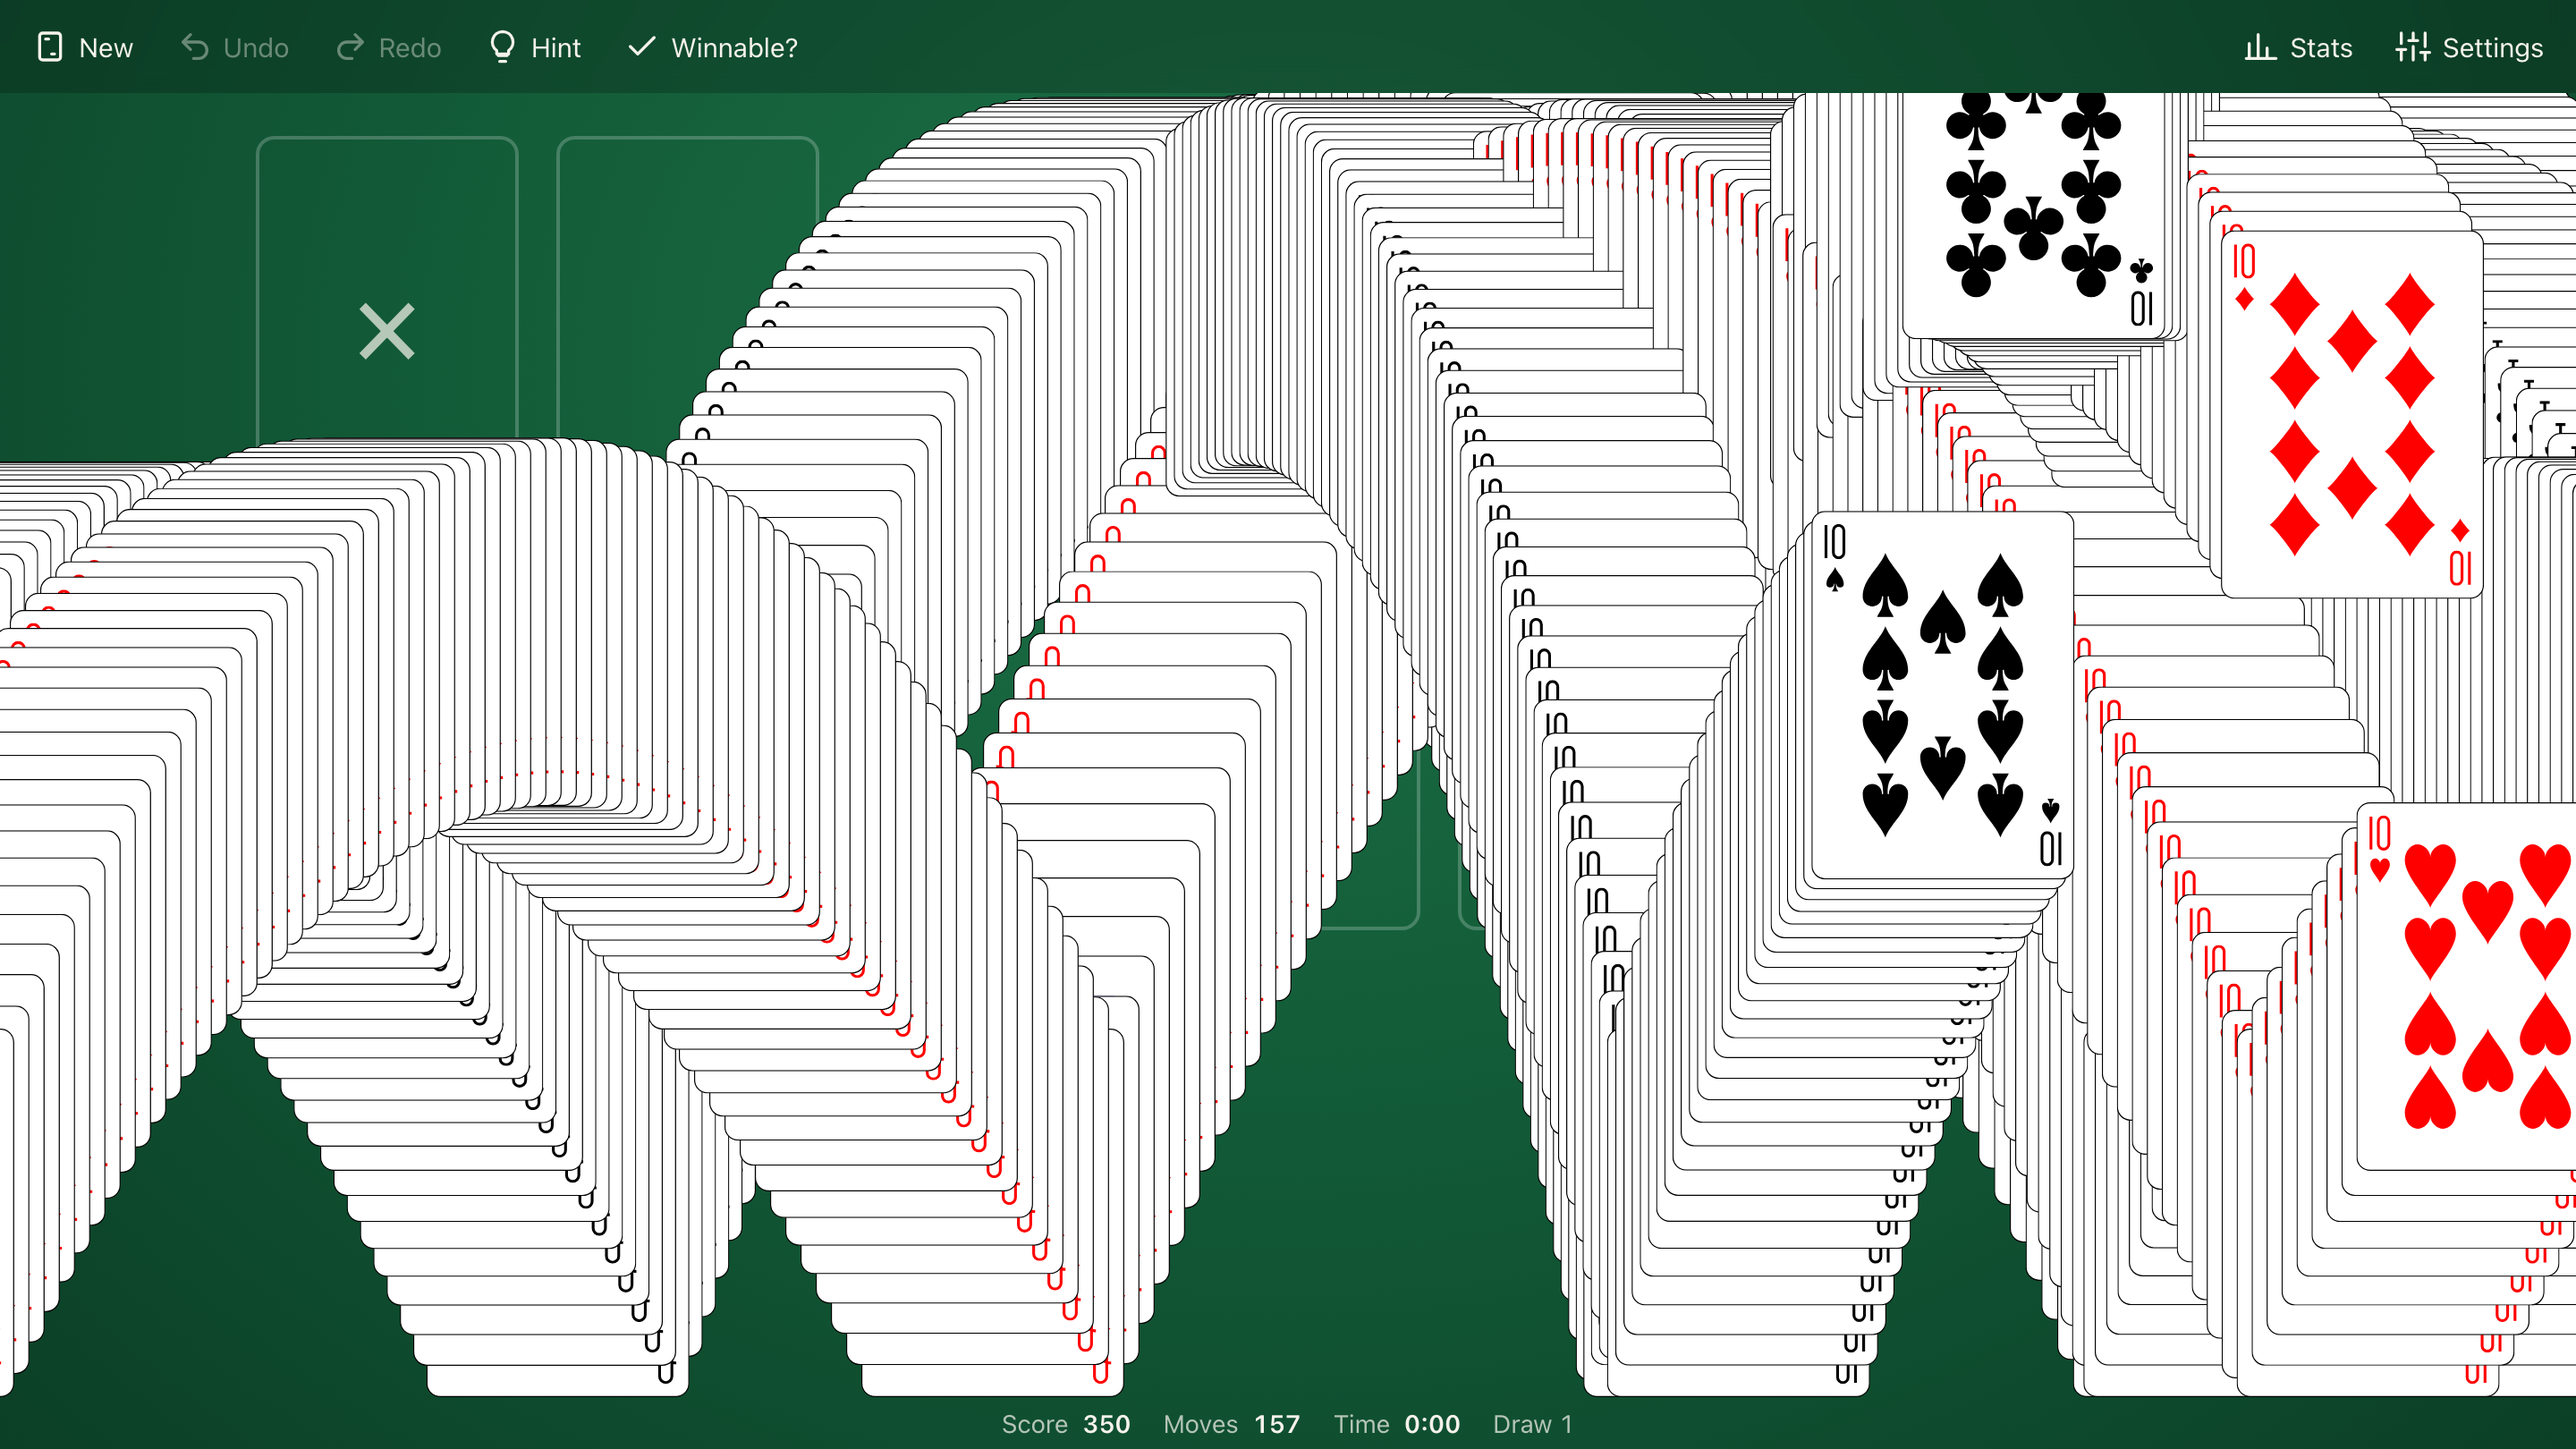
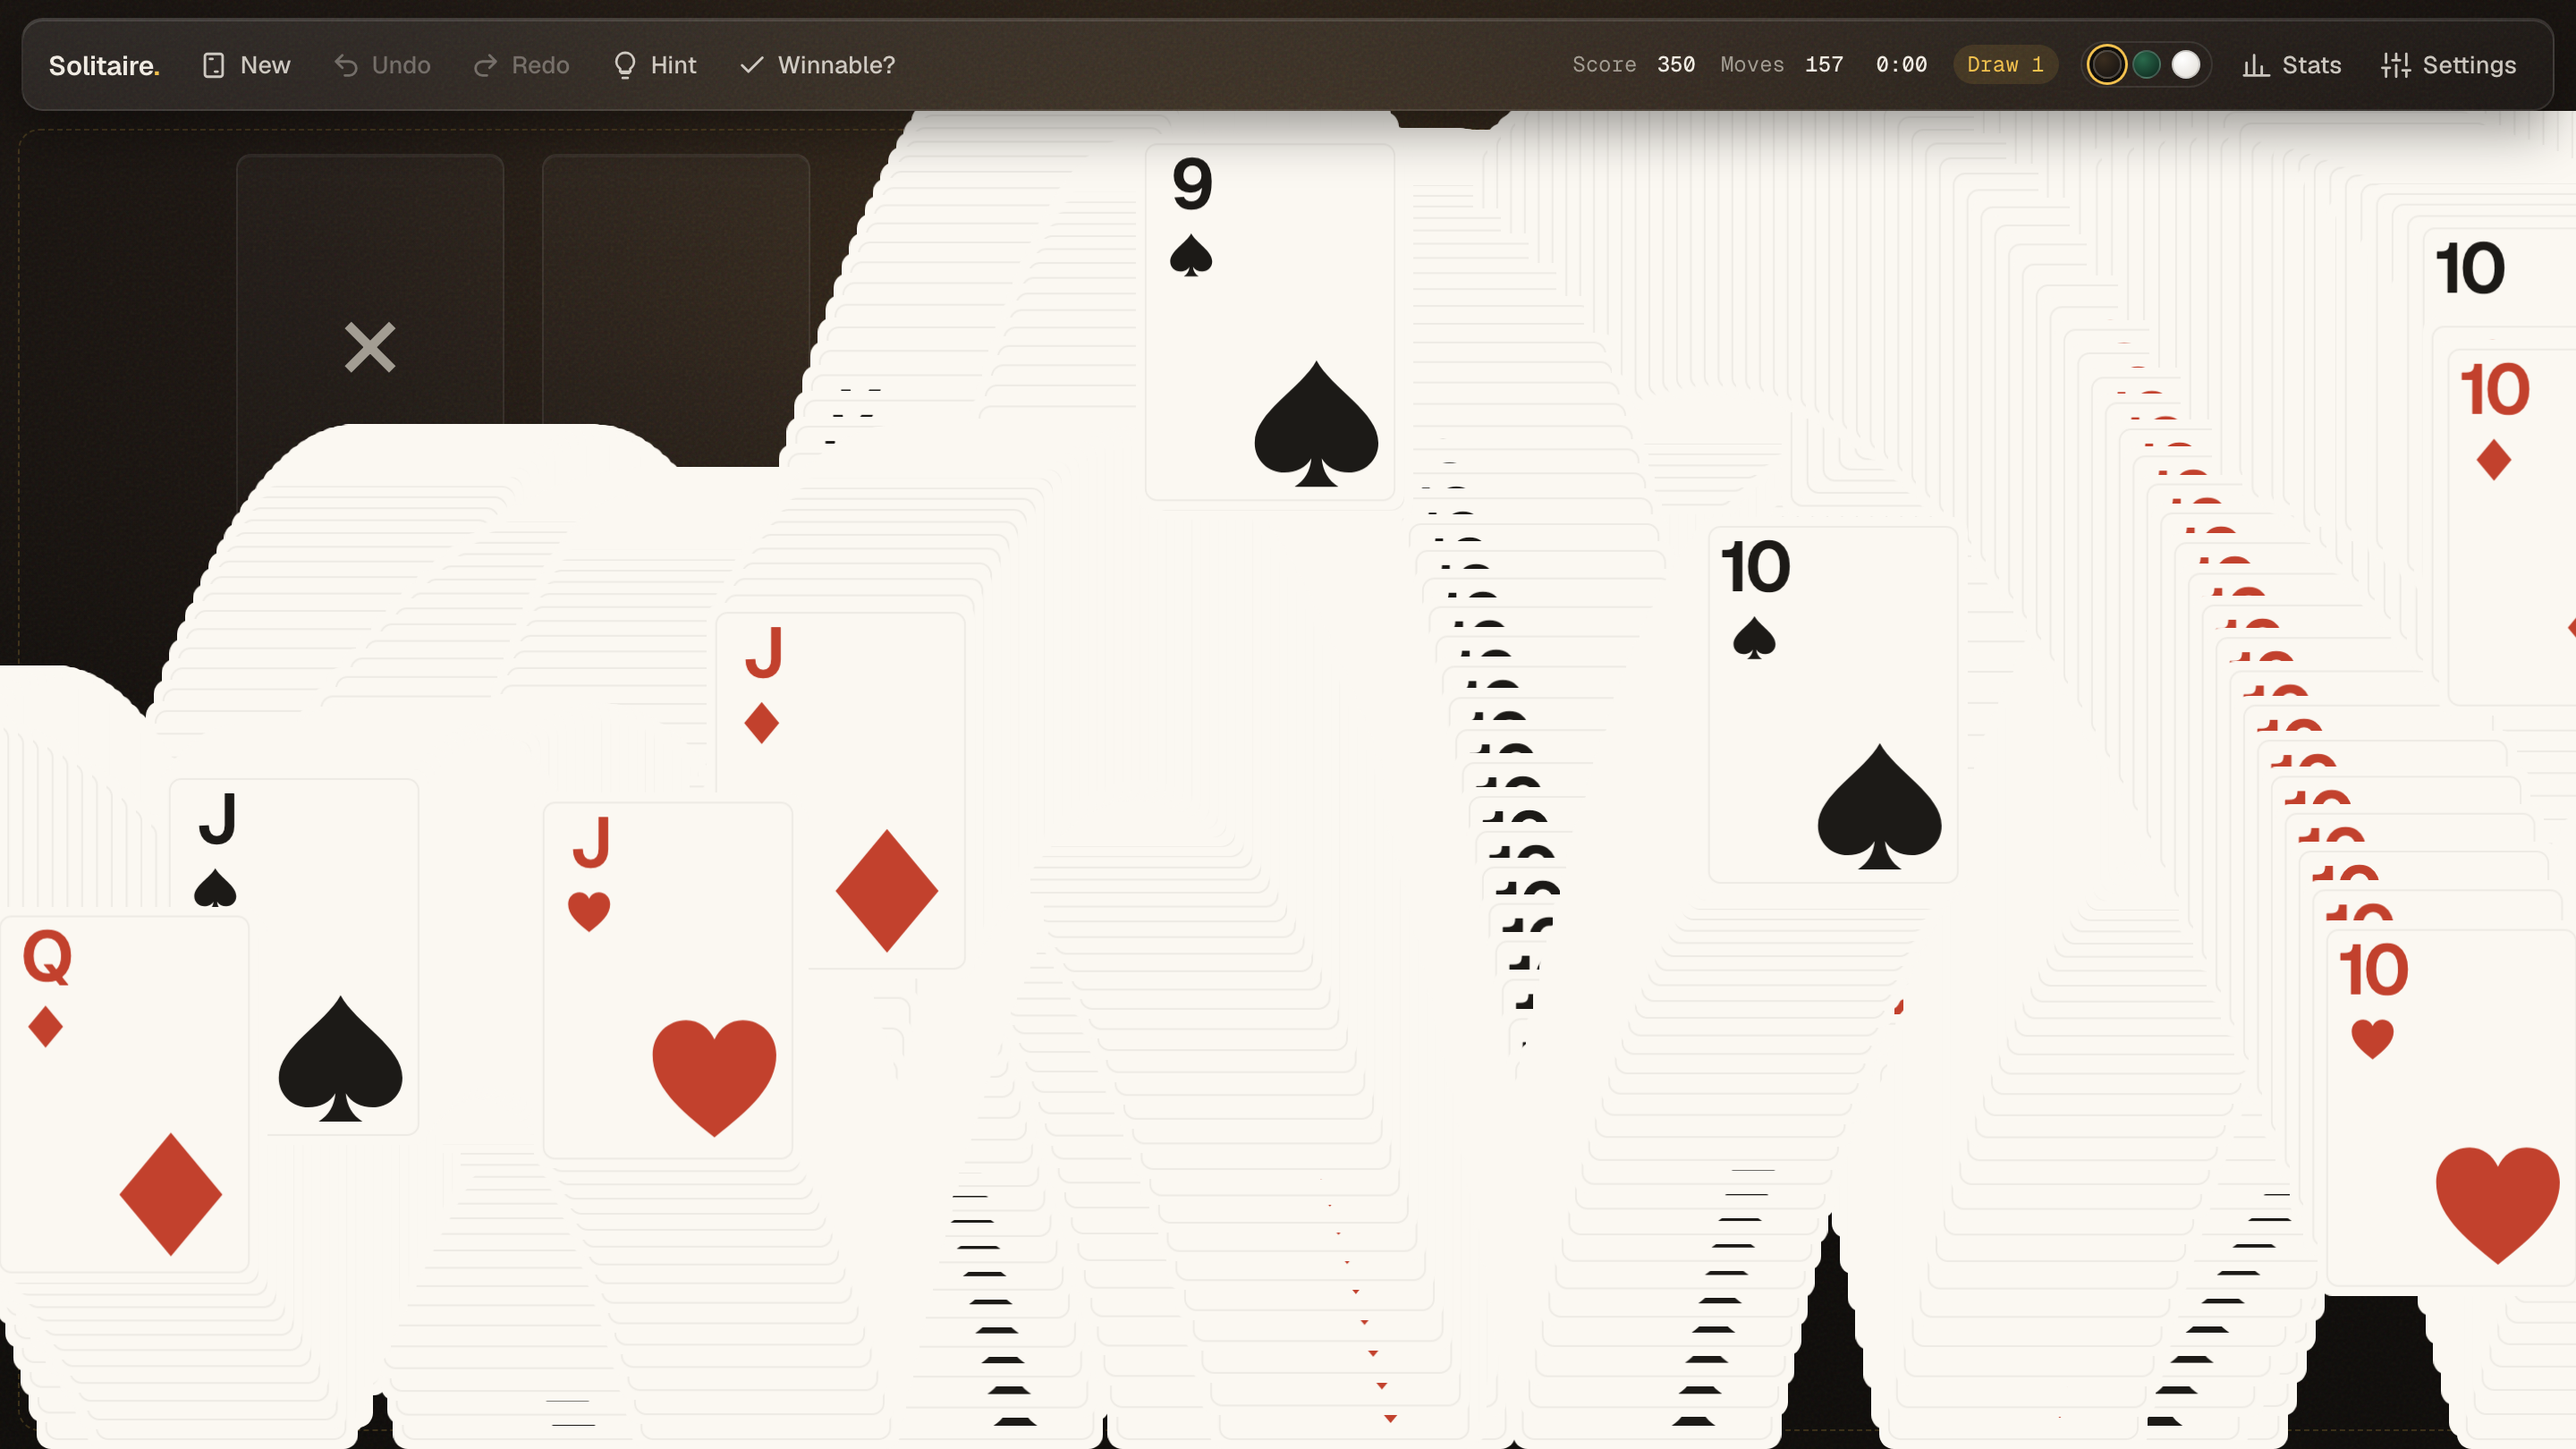
content: Solitaire write-up refreshed for its v1.1 and v1.2 redesign
Three textured tables, HTML card faces, Deco back, 3D flip and no-move
shake, auto-move off by default, card-by-card finish; 183 unit and 33
e2e tests. Five captures retaken from the live app.

diff --git a/docs/QUALITY.md b/docs/QUALITY.md
@@ -140,3 +140,7 @@ Both projects shipped major updates; facts come from the sessions that built the
 An eighth project, `/work/solitaire`, drafted from the Solitare repository (no git remote, so no source link): `docs/superpowers/specs/2026-09-29-solitaire-klondike-design.md`, `src/solver/`, `src/deals/`, `scripts/build-deals.ts`, `vercel.json` and `vite.config.ts`. Numbers trace to the repo: 2,000 banked seeds per draw mode at a 200,000-node budget, banked solution lengths 118 to 261 (draw 1) and 101 to 189 (draw 3), a 1.5 s hint and check budget, a 5 s rewind budget, the last 200 seeds skipped, and 134 Vitest tests across 21 files (run here) plus 12 Playwright tests. The four captures in `public/work/solitaire/` were taken from solitaire.lukeghanna.com at 1440×810 at 2× with a throwaway Playwright script: a banked draw-1 deal was loaded through the app's `?e2e=1` test hook and its solver solution fed in move by move, so the timer reads a few seconds and the win-cascade capture reads 0:00; the captions say so. `solitare.lukeghanna.com` 308-redirects to the primary domain.
 
 Gate: `npm run lint`, `npm run typecheck`, `npm run test:unit` (34), `npm run build` (all routes static; eight SSG write-ups), `npx playwright test` (106 passed, 12 intentional skips; axe clean on `/work/solitaire` in both themes on desktop and mobile).
+
+## Solitaire refreshed for v1.1 and v1.2 (2026-09-29)
+
+The Solitare repository shipped two releases after the write-up was drafted (`a3a265c..d63f2dc`, 25 commits), and solitaire.lukeghanna.com serves the latest (its bundle contains the new Cloth and tabbed Settings code). The solver, the deal bank and the scoring are unchanged, so the first half of the write-up stands. Changed on the page: the three CSS-textured tables (Studio, Felt with five cloths, Paper), HTML card faces with a large corner index and no court art (the CC0 SVG decks are gone, and so is their credit), the Deco back, the real 3D flip, the no-move shake and hover lift, Space to draw and Enter to pick up, auto-move now opt-in and off for everyone, the foundation hold-back derived from turn history, a card-by-card finish at 110 ms per card, and reduced motion quickening rather than skipping the finish. Tests are now 183 Vitest tests across 25 files (run here) and 33 Playwright tests per project. All five captures were retaken from the live site the same way as before (a banked draw-1 deal fed in through `?e2e=1`), on the default Studio table plus Paper and the Settings dialog; the Minimal dark capture was removed with the theme.
